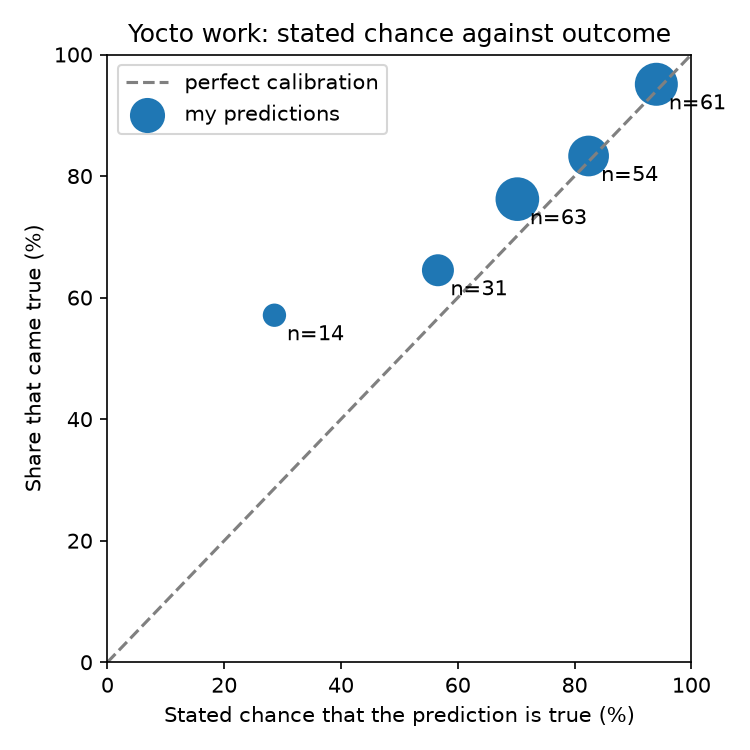
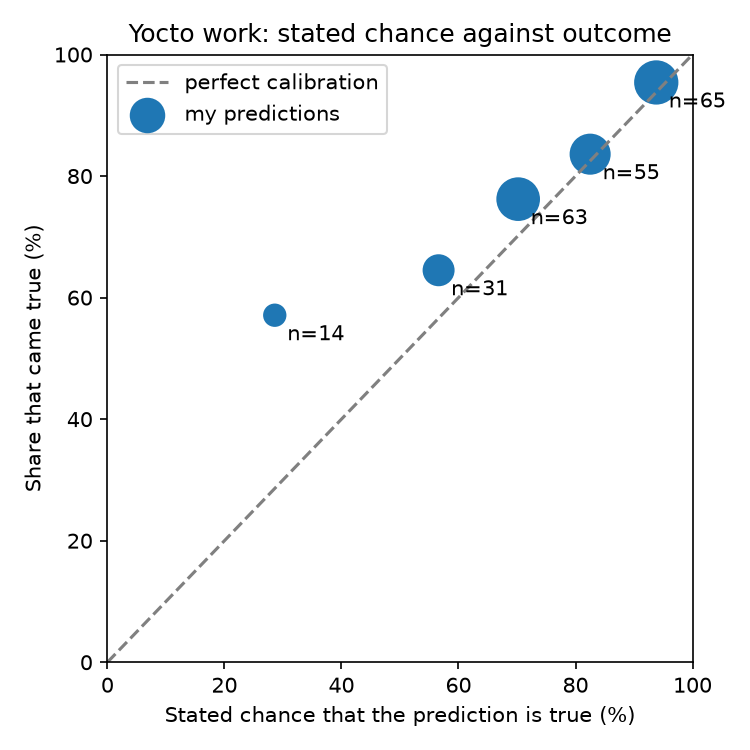
Score the kernel triage commit and push: 5 predictions
Adds P331 to P335 (the commit block, the push guard and the green CI run on 700cda1) and regenerates the totals, calibration figure and README numbers. AI-assisted: drafted with Claude, checked by the author.

Claude-Session: https://claude.ai/code/session_01RGFvSaq8eFKbAj64rm57gv

diff --git a/README.md b/README.md
@@ -15,7 +15,7 @@ Every number below comes from a script in `scripts/` run on the real files, and 
 | MCUboot SBOM (mine) | SPDX 2.3 tag-value, 2,511 bytes: 5 package entries (2 image entries and 3 components), 0 files, 7 relationships | results/sbom_counts.json |
 | CVE report | 36 packages scanned, 20 with database matches: 22,246 Patched, 145 Unpatched, 112 Ignored; 10 packages carry Unpatched matches, and `linux-yocto` holds 116 of the 145 | results/totals.json, results/packages.csv |
 | CVE triage | All 145 Unpatched matches have a status and a reason. The 29 userland rows: 4 affected, 20 not affected, 5 unknown. The 116 kernel rows, from the CVE records' version ranges and the kernel build: 69 affected, 20 not affected, 27 unknown | docs/TRIAGE.md, docs/triage_userland.csv, docs/triage_kernel.csv, results/triage_totals.json |
-| My predictions | 242 rows: 186 hit, 45 missed, 11 not scored; 80.5% of scored predictions came true against a mean stated chance of 75.2% (223 rows with a stated chance) | results/scorecard_totals.json |
+| My predictions | 247 rows: 191 hit, 45 missed, 11 not scored; 80.9% of scored predictions came true against a mean stated chance of 75.5% (228 rows with a stated chance) | results/scorecard_totals.json |
 
 Figures: `results/fig_unpatched_by_package.png`, `results/fig_sbom_scale.png`, `results/fig_calibration.png`.
 
